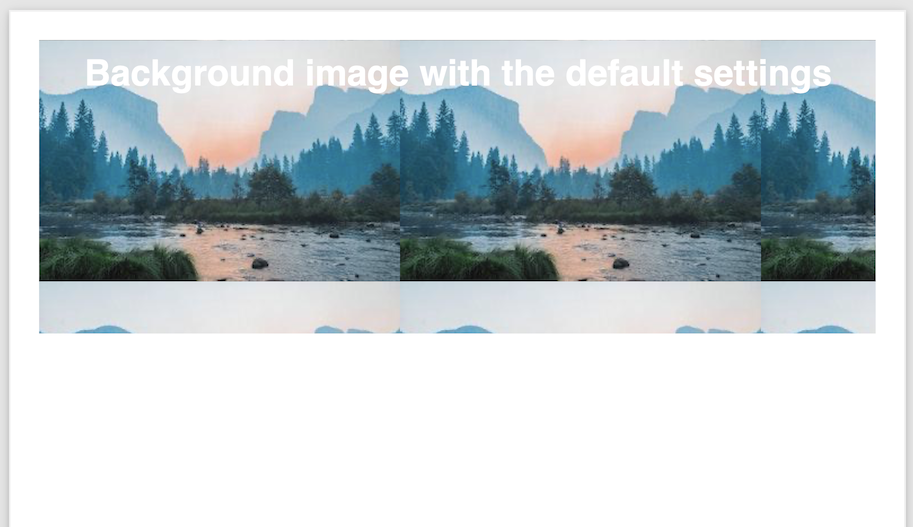
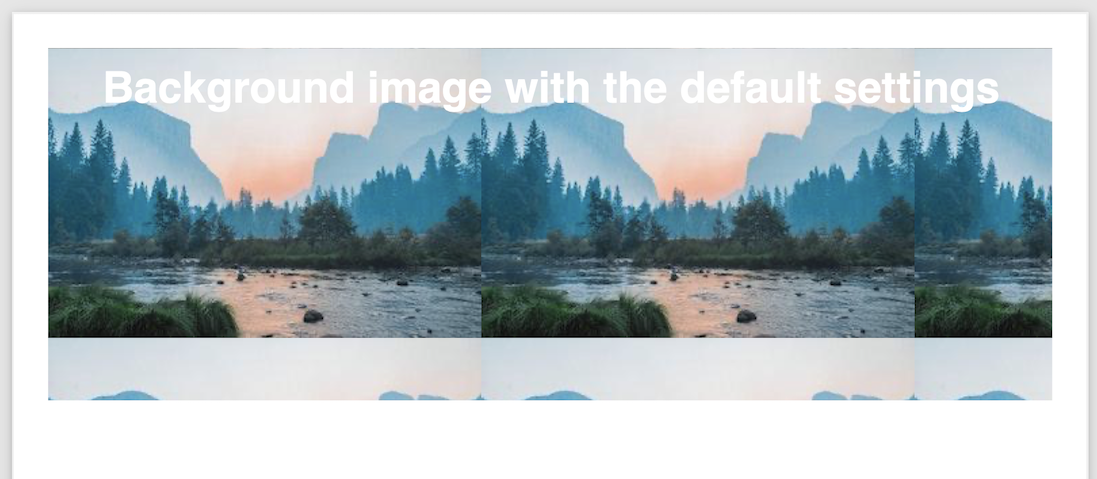
Documetnation updates image backgrounds

diff --git a/Scryber.Core.UnitTest/Content/HTML/Documentation.html b/Scryber.Core.UnitTest/Content/HTML/Documentation.html
@@ -8,7 +8,6 @@
 
         div.bg {
             background-image: url("./images/landscape.jpg");
-            background-size: cover;
             min-height: 260px;
             text-align:center;
             color:white;

diff --git a/docs/drawing_image_backgrounds.rst b/docs/drawing_image_backgrounds.rst
@@ -19,6 +19,7 @@ and of fills for shapes, text, etc.
                 background-image: url("./images/landscape.jpg");
                 min-height: 260px;
                 text-align:center;
+                color:white;
                 font-family: sans-serif;
                 font-size:larger;
                 font-weight:bold;
@@ -51,6 +52,7 @@ component itself, the other
     * Both - The default value, where the image repeats both X and Y directions.
     * Fill - The image will only be shown once, but fill the available container size **(also overrides any of the following size options)**.
 * The size of the image of the rendered image.
+    * cover - The background image will fill the available space completely. Clipping to the width or height, so it is shown.
     * x-size - Determines the vertical height of the rendered background image in units.
     * y-size - Determines the vertical height of the rendered background image in units.
 * The starting position of the pattern.
